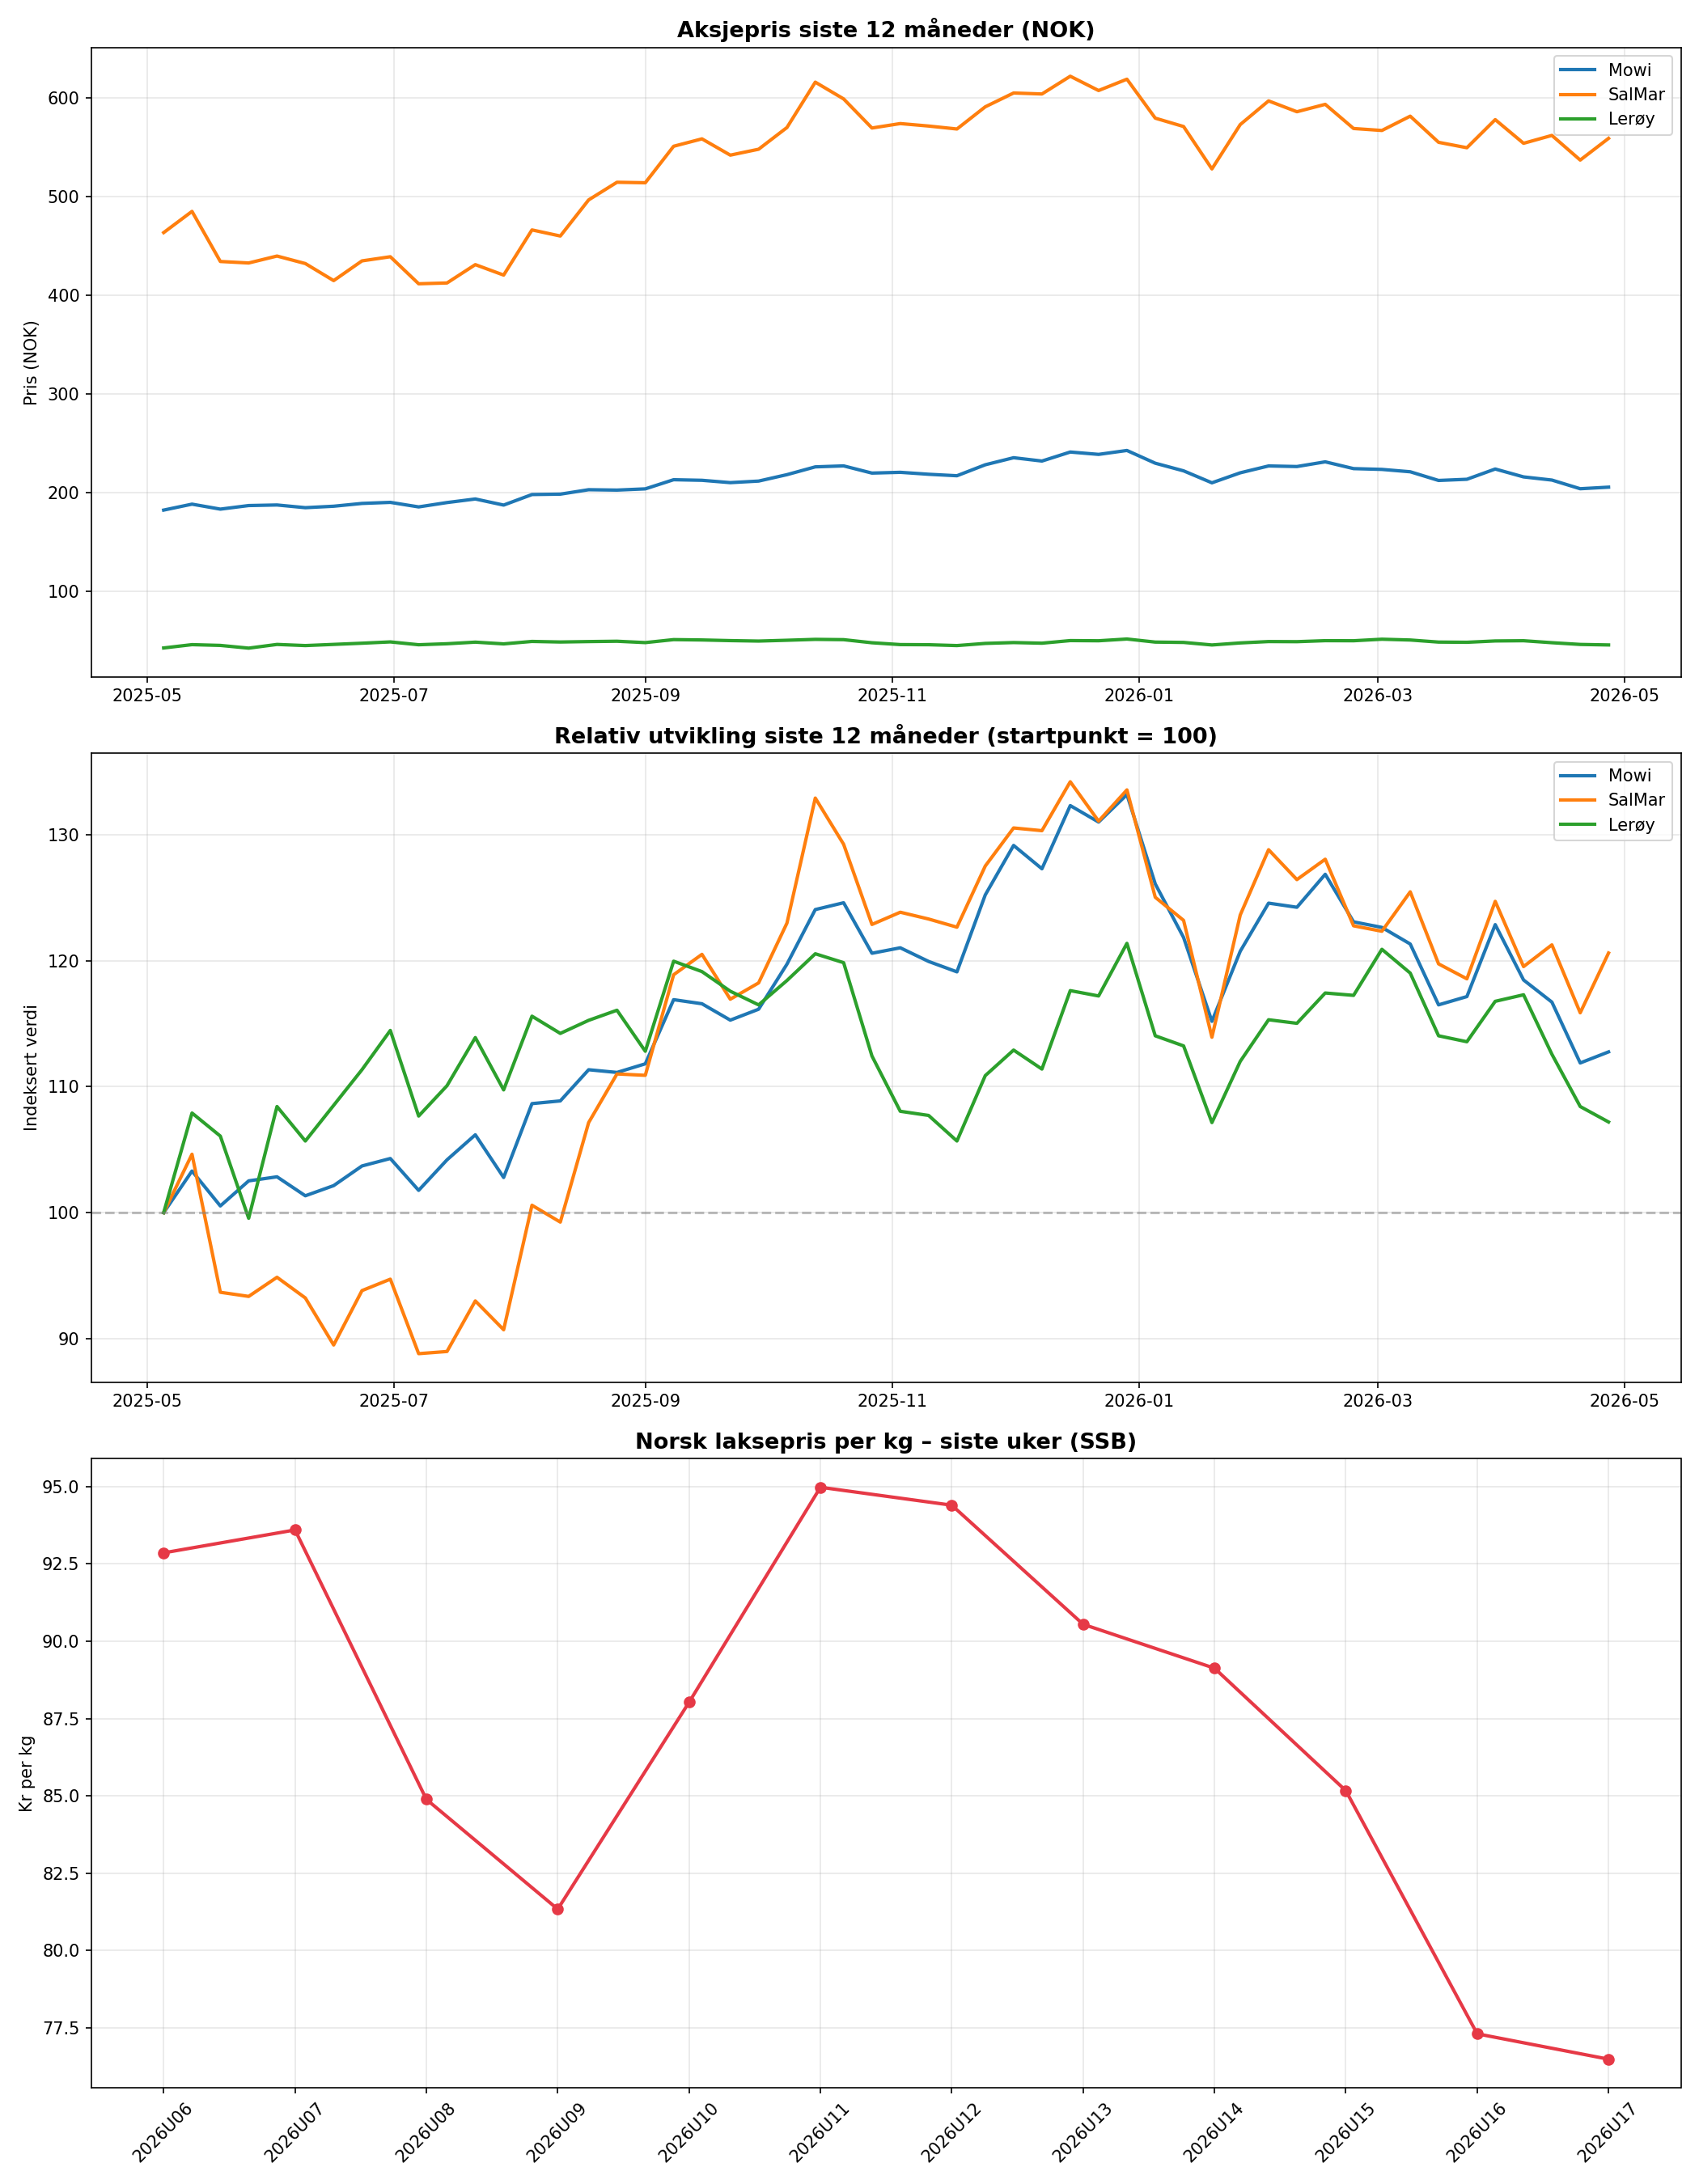
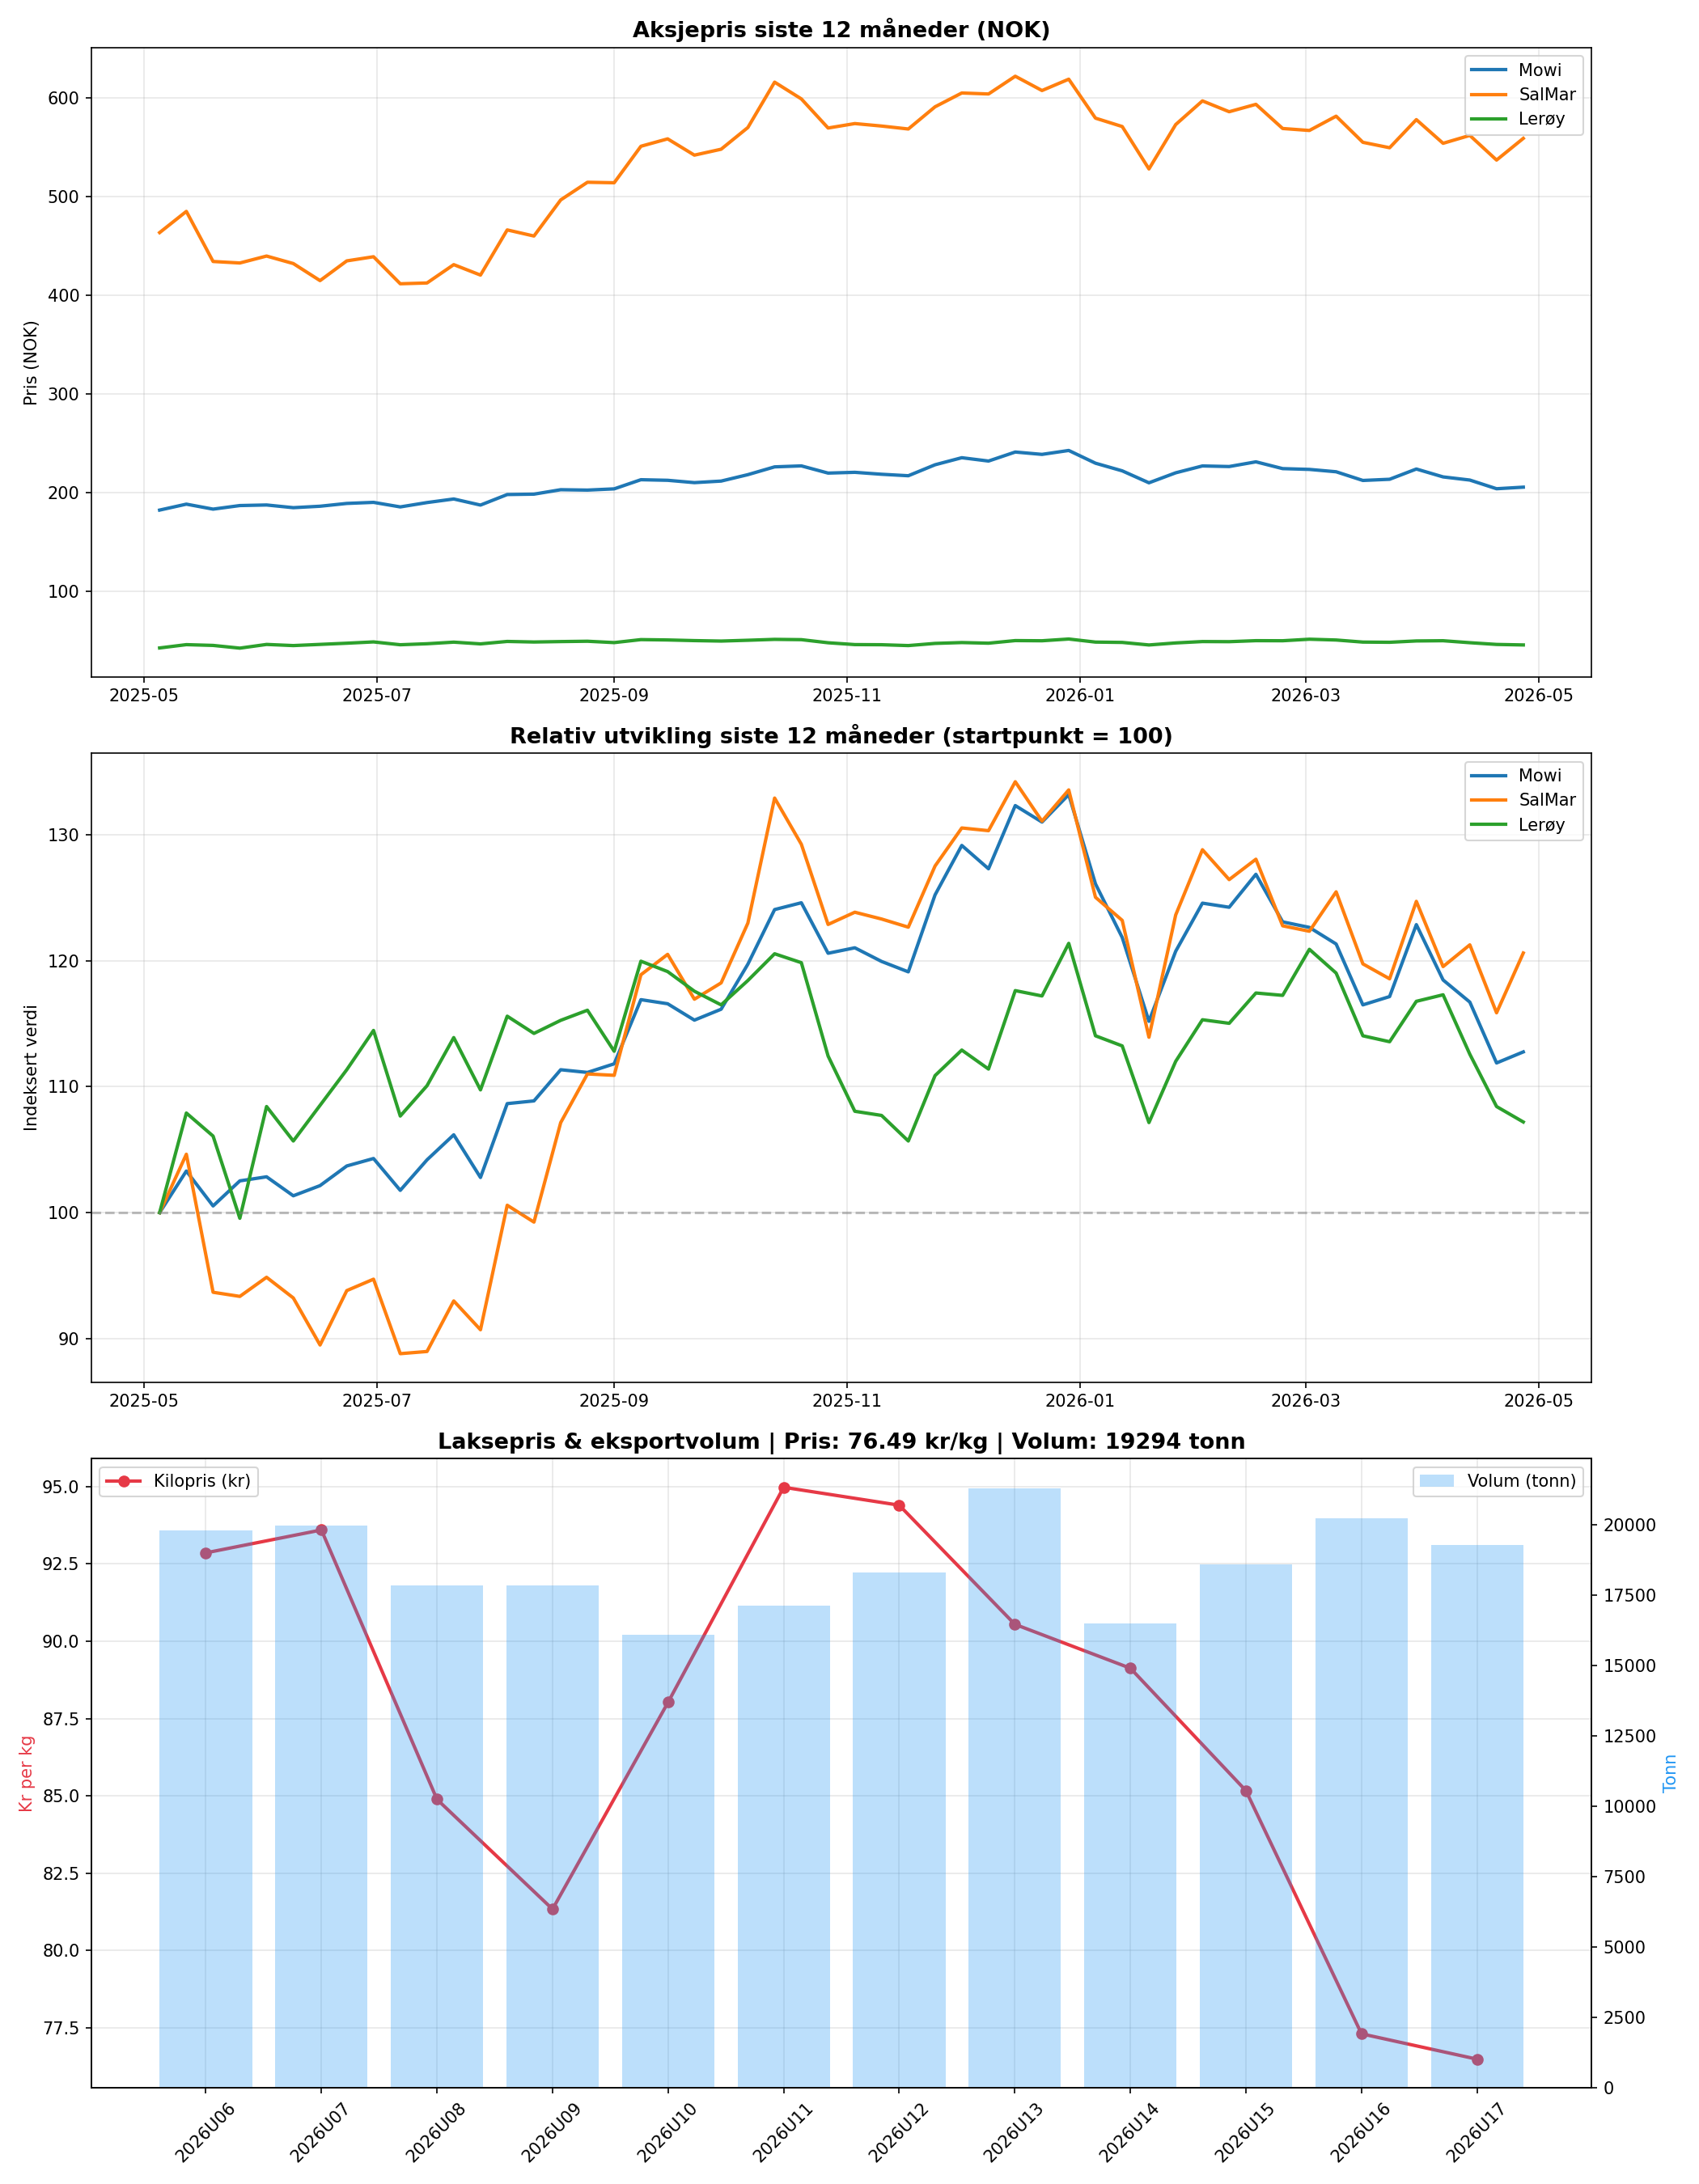
Add export volume data and improved AI analysis

diff --git a/main.py b/main.py
@@ -2,12 +2,15 @@ import yfinance as yf
 import pandas as pd
 import matplotlib.pyplot as plt
 import requests
+import feedparser
+from newsapi import NewsApiClient
 from groq import Groq
 import os
 from dotenv import load_dotenv
 
 load_dotenv()
 
+# === AKSJEPRISER ===
 selskaper = {
     "Mowi": "MOWI.OL",
     "SalMar": "SALM.OL",
@@ -23,7 +26,7 @@ for navn, ticker in selskaper.items():
 df = pd.DataFrame(alle_priser)
 df_norm = (df / df.iloc[0]) * 100
 
-# Hent laksepris fra SSB
+# === SSB LAKSEPRIS OG VOLUM ===
 ssb_url = "https://data.ssb.no/api/v0/no/table/03024"
 ssb_query = {
     "query": [
@@ -36,26 +39,94 @@ ssb_query = {
 try:
     ssb_response = requests.post(ssb_url, json=ssb_query, timeout=10)
     ssb_data = ssb_response.json()
-    
     perioder = list(ssb_data["dimension"]["Tid"]["category"]["label"].values())
     innhold = list(ssb_data["dimension"]["ContentsCode"]["category"]["label"].values())
     verdier = ssb_data["value"]
-    
     n_perioder = len(perioder)
-    n_innhold = len(innhold)
-    
     kilopris_idx = innhold.index("Kilopris (kr)") if "Kilopris (kr)" in innhold else 1
+    vekt_idx = innhold.index("Vekt (tonn)") if "Vekt (tonn)" in innhold else 0
     kilopriser = verdier[kilopris_idx * n_perioder:(kilopris_idx + 1) * n_perioder]
-    
-    laks_df = pd.DataFrame({"Periode": perioder, "Kilopris (kr)": kilopriser})
-    print("SSB laksepris hentet ✅")
-    print(laks_df.tail(5))
+    volum = verdier[vekt_idx * n_perioder:(vekt_idx + 1) * n_perioder]
+    laks_df = pd.DataFrame({
+        "Periode": perioder,
+        "Kilopris (kr)": kilopriser,
+        "Volum (tonn)": volum
+    })
+    siste_pris = kilopriser[-1]
+    prisendring = kilopriser[-1] - kilopriser[-2]
+    siste_volum = volum[-1]
+    volum_endring = volum[-1] - volum[-2]
+    print(f"SSB laksepris hentet ✅ – siste pris: {siste_pris} kr/kg | volum: {siste_volum} tonn")
     ssb_ok = True
 except Exception as e:
     print(f"SSB feilet: {e}")
     ssb_ok = False
+    siste_pris = None
+    prisendring = None
+    siste_volum = None
+    volum_endring = None
 
-# Grafer
+# === NORSKE RSS-FEEDS ===
+norske_feeds = {
+    "iLaks": "https://ilaks.no/feed/",
+    "Fiskeribladet": "https://fiskeribladet.no/feed/",
+    "Intrafish NO": "https://www.intrafish.no/rss",
+    "NRK": "https://www.nrk.no/nyheter/siste.rss",
+    "VG": "https://www.vg.no/rss/feed/?limit=20",
+    "TV2": "https://www.tv2.no/rss/",
+    "DN": "https://www.dn.no/rss",
+}
+
+relevante_ord = [
+    "laks", "oppdrett", "sjømat", "fisk", "havbruk",
+    "salmon", "aquaculture", "mowi", "salmar", "lerøy",
+    "seafood", "sjømatnæring", "eksport", "akvakultur",
+    "ilaks", "intrafish", "fiskeribladet"
+]
+
+norske_nyheter = []
+for kilde, url in norske_feeds.items():
+    try:
+        feed = feedparser.parse(url)
+        relevante = []
+        for entry in feed.entries[:30]:
+            tittel = entry.title.lower()
+            if any(ord in tittel for ord in relevante_ord):
+                relevante.append(f"[{kilde}] {entry.title}")
+        norske_nyheter.extend(relevante[:4])
+        print(f"{kilde}: {len(relevante)} relevante nyheter ✅")
+    except Exception as e:
+        print(f"{kilde} feilet: {e}")
+
+# === INTERNASJONALE NYHETER VIA NEWSAPI ===
+newsapi = NewsApiClient(api_key=os.getenv("NEWS_API_KEY"))
+internasjonale_nyheter = []
+
+søkeord = [
+    "salmon Norway price",
+    "salmon aquaculture trade",
+    "Norwegian salmon export"
+]
+
+for søk in søkeord:
+    try:
+        artikler = newsapi.get_everything(
+            q=søk,
+            language="en",
+            sort_by="publishedAt",
+            page_size=3
+        )
+        for a in artikler["articles"]:
+            internasjonale_nyheter.append(f"[{a['source']['name']}] {a['title']}")
+        print(f"NewsAPI '{søk}': {len(artikler['articles'])} nyheter ✅")
+    except Exception as e:
+        print(f"NewsAPI '{søk}' feilet: {e}")
+
+alle_nyheter = norske_nyheter + internasjonale_nyheter
+nyheter_tekst = "\n".join(alle_nyheter) if alle_nyheter else "Ingen nyheter tilgjengelig"
+print(f"\nTotalt {len(alle_nyheter)} nyheter ({len(norske_nyheter)} norske, {len(internasjonale_nyheter)} internasjonale)")
+
+# === GRAFER ===
 n_grafer = 3 if ssb_ok else 2
 fig, axes = plt.subplots(n_grafer, 1, figsize=(14, 6 * n_grafer))
 
@@ -75,47 +146,93 @@ axes[1].legend()
 axes[1].grid(True, alpha=0.3)
 
 if ssb_ok:
-    axes[2].plot(laks_df["Periode"], laks_df["Kilopris (kr)"], color="#e63946", linewidth=2, marker="o")
-    axes[2].set_title("Norsk laksepris per kg – siste uker (SSB)", fontsize=13, fontweight="bold")
-    axes[2].set_ylabel("Kr per kg")
-    axes[2].tick_params(axis="x", rotation=45)
-    axes[2].grid(True, alpha=0.3)
+    ax2 = axes[2]
+    ax2b = ax2.twinx()
+    ax2.plot(laks_df["Periode"], laks_df["Kilopris (kr)"], color="#e63946", linewidth=2, marker="o", label="Kilopris (kr)")
+    ax2b.bar(laks_df["Periode"], laks_df["Volum (tonn)"], alpha=0.3, color="#2196F3", label="Volum (tonn)")
+    ax2.set_title(f"Laksepris & eksportvolum | Pris: {siste_pris} kr/kg | Volum: {siste_volum} tonn", fontsize=13, fontweight="bold")
+    ax2.set_ylabel("Kr per kg", color="#e63946")
+    ax2b.set_ylabel("Tonn", color="#2196F3")
+    ax2.tick_params(axis="x", rotation=45)
+    ax2.grid(True, alpha=0.3)
+    ax2.legend(loc="upper left")
+    ax2b.legend(loc="upper right")
 
 plt.tight_layout()
 plt.savefig("lakseindustri.png", dpi=150)
 plt.show()
 print("Graf lagret!")
 
+# === AI-ANALYSE ===
 siste_priser = df.tail(10).to_string()
 siste_norm = df_norm.tail(10).to_string()
 ssb_tekst = laks_df.tail(10).to_string(index=False) if ssb_ok else "Ikke tilgjengelig"
 
 client = Groq(api_key=os.getenv("GROQ_API_KEY"))
 
-chat = client.chat.completions.create(
+markedsanalyse = client.chat.completions.create(
     model="llama-3.3-70b-versatile",
     messages=[
         {
             "role": "user",
-            "content": f"""Du er en senior analytiker i sjømatbransjen.
-Analyser følgende data og gi et konkret innsikt:
+            "content": f"""Du er en senior markedsanalytiker i sjømatbransjen som hjelper en lakseinnkjøper.
 
-Aksjepriser siste 10 uker (Mowi, SalMar, Lerøy):
+Aksjepriser siste 10 uker:
 {siste_priser}
 
-Relativ utvikling (indeksert):
+Relativ utvikling:
 {siste_norm}
 
-Laksepris per kg siste uker (SSB):
+Laksepris og eksportvolum (SSB):
 {ssb_tekst}
 
-Gi et konkret innsikt:
-1. Hvilke trender ser du på tvers av aksjepriser og laksepris?
-2. Hvilket selskap presterer best/dårligst relativt sett?
-3. Hva bør investorer og aktører i næringen merke seg?"""
+Siste laksepris: {siste_pris} kr/kg
+Prisendring fra forrige uke: {prisendring:.2f} kr/kg
+Eksportvolum siste uke: {siste_volum} tonn
+Volumendring fra forrige uke: {volum_endring:.0f} tonn
+
+Ferske nyheter:
+{nyheter_tekst}
+
+Gi følgende:
+1. MARKEDSSTATUS: Kort oppsummering av hvor markedet er nå
+2. PRISANALYSE: Hva sier pris og volum om pristrenden? Opp eller ned neste uke?
+3. SELSKAPSOVERSIKT: Hvem presterer best/dårligst og hva betyr det for innkjøper?
+4. FORHANDLINGSSTRATEGI: Konkrete argumenter innkjøper kan bruke overfor leverandør
+5. ANBEFALT INNKJØPSPRIS: Hva bør innkjøper sikte på å betale per kg denne uken og hvorfor?"""
         }
     ]
 )
 
-print("\n=== ANALYSE: NORSK LAKSEINDUSTRI ===")
-print(chat.choices[0].message.content)
+pestel = client.chat.completions.create(
+    model="llama-3.3-70b-versatile",
+    messages=[
+        {
+            "role": "user",
+            "content": f"""Du er en senior markedsanalytiker i sjømatbransjen.
+Lag en konkret PESTEL-analyse basert på disse nyhetene for lakseinnkjøpere i Norge:
+
+{nyheter_tekst}
+
+Siste laksepris: {siste_pris} kr/kg
+Prisendring: {prisendring:.2f} kr/kg
+Eksportvolum: {siste_volum} tonn
+Volumendring: {volum_endring:.0f} tonn
+
+Format:
+P – Politisk: (konkrete punkter med prisimplikasjon)
+E – Økonomisk: (konkrete punkter med prisimplikasjon)
+S – Sosialt: (konkrete punkter med prisimplikasjon)
+T – Teknologisk: (konkrete punkter med prisimplikasjon)
+E – Miljø: (konkrete punkter med prisimplikasjon)
+L – Legalt: (konkrete punkter med prisimplikasjon)
+
+UKENS SIGNAL: Ett konkret råd til innkjøper."""
+        }
+    ]
+)
+
+print("\n=== MARKEDSANALYSE & FORHANDLINGSSTRATEGI ===")
+print(markedsanalyse.choices[0].message.content)
+print("\n=== PESTEL-ANALYSE ===")
+print(pestel.choices[0].message.content)